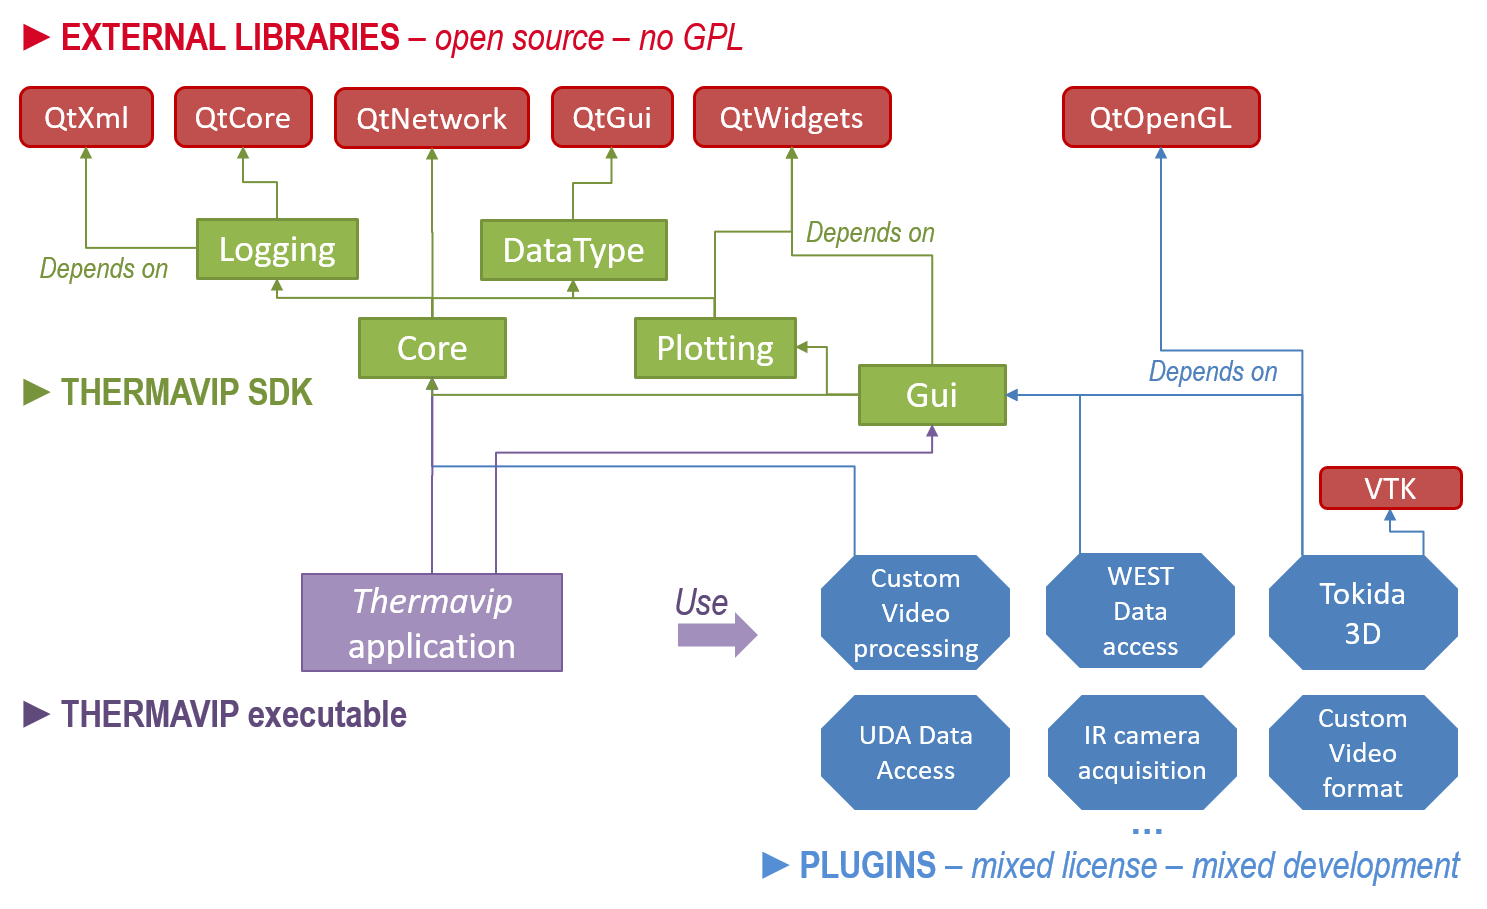
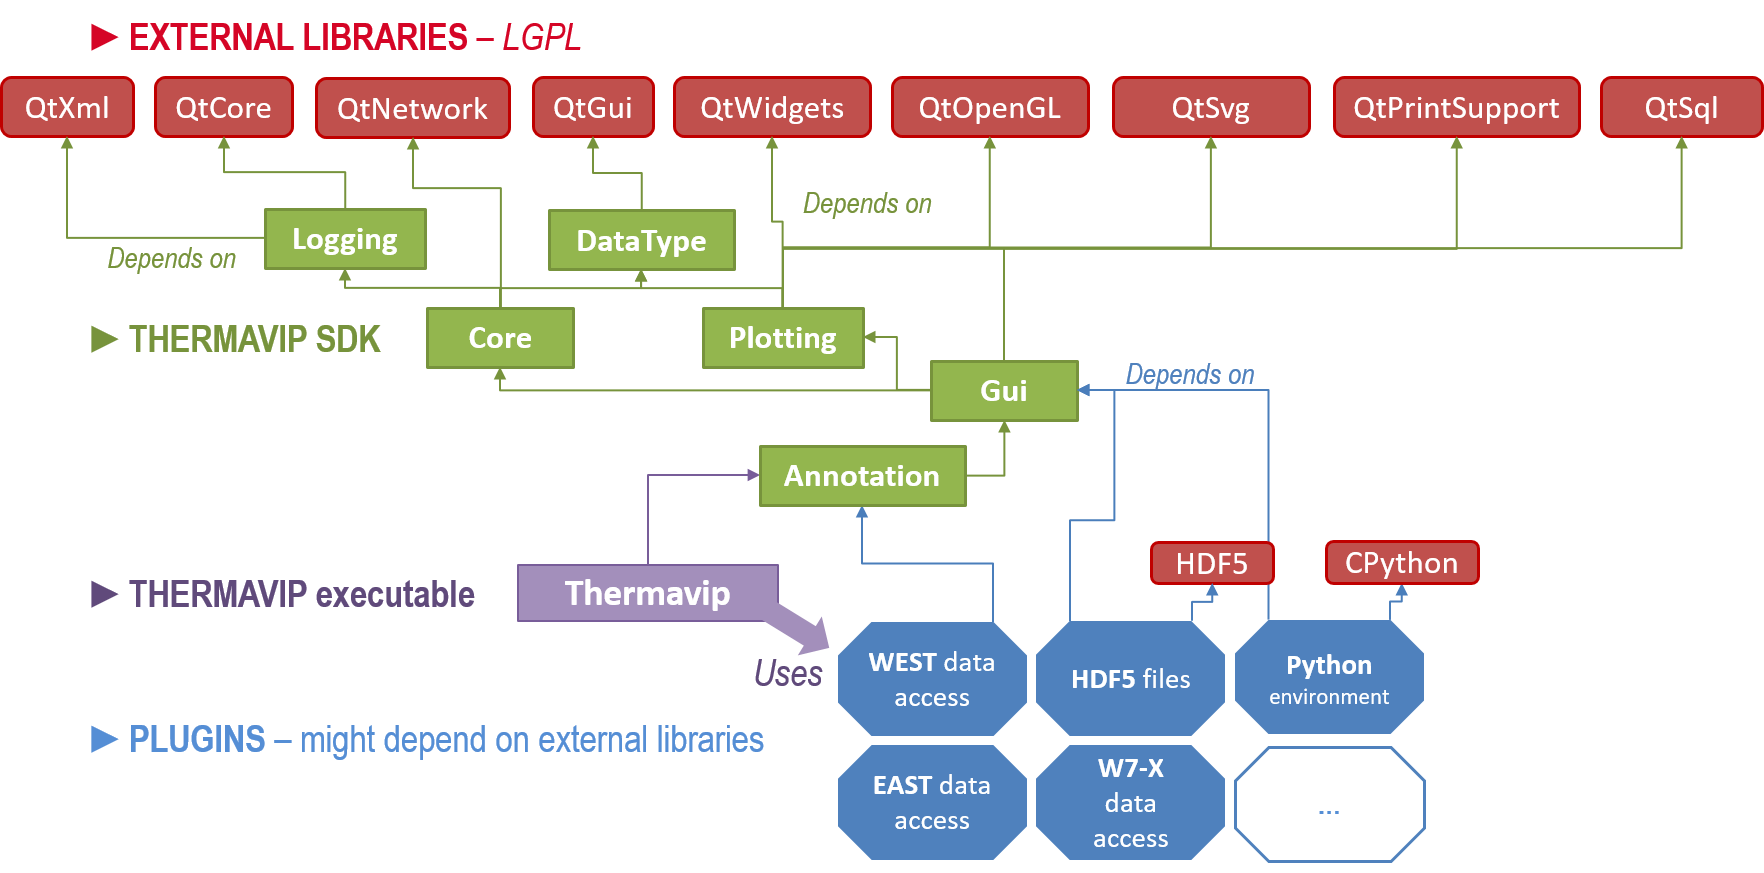
Updated documentation

diff --git a/docs/architecture.md b/docs/architecture.md
@@ -2,71 +2,32 @@
 
 # Global architecture
 
+
 Thermavip is a C++ framework based on 4 layers (see image below):
 
 - The Qt library which is the only external dependency of Thermavip. You will need a version of Qt >= 5.9
-- a Software Development Kit (SDK) composed of 5 shared libraries: 
-			1.	[Logging](docs/logging.md): logging to file/console/GUI tools
-			2.	[DataTypes](docs/datatypes.md): base data types manipulated by Thermavip (N-D arrays, vector of points, scene models...)
-			3.	[Plotting](docs/plotting.md): high performance plotting library for offline/real-time display of multi-sensor data
-			4.	[Core](docs/core.md): base library to define and manipulate processing pipelines
-			5.	[Gui](docs/gui.md): base graphical components (main window, players...)
+- a Software Development Kit (SDK) composed of 6 shared libraries: 
+
+	1.	[Logging](docs/logging.md): logging to file/console/GUI tools
+	2.	[DataType](docs/datatypes.md): base data types manipulated by Thermavip (N-D arrays, vector of points, scene models...)
+	3.	[Plotting](docs/plotting.md): high performance plotting library for offline/firm real-time display of multi-sensor data
+	4.	[Core](docs/core.md): asynchronous agents library based on dataflow, archiving, plugin mechanism
+	5.	[Gui](docs/gui.md): base graphical components (main window, players...)
+	6.	[Annotation](docs/annotation.md): graphical components used to annotate IR videos, upload annotations to JSON files or to a MySQL/SQLite DB, query and display annotations from a DB.
 			
 - The *plugins*, dynamic libraries containing user specific functionalities based on the SDK. These plugins generally provide tools to interact with additional data format (like new video files), display additional GUI features or define new signal processing routines. 
-- The *Thermavip* executable itself, which is basically just a plugin container. Its main purpose it to load the plugins from within the *VipPlugins* directory.
+- The *Thermavip* executable itself, which is basically just a plugin container. Its main purpose it to setup the main GUI and load the plugins from within the *VipPlugins* directory.
+
 
 ![Thermavip architecture](images/architecture.png)
 
 A lot of Thermavip SDK functionalitites rely on Qt mechanisms : meta-object system and the property system.
 It is fundamental to understand these systems if you wish to use Thermavip SDK.
 
-	
-The repository directory tree looks like the following:
-```
-bin
-icons
-doc
-docs
-fonts
-help
-tools
-src
-	-> Core
-	-> DataType
-	-> External
-	-> GenericProcess
-	-> Gui
-	-> Logging
-	-> Plotting
-	-> Plugins
-		-> DirectoryBrowser
-		-> FFmpeg
-		...
-```
-
--	*bin* folder: contains all binaries (shared libraries and exectutables) generated when compiling Thermavip (*.dll and *.exe files on Windows).
--	*icons* : contains all image files used by Thermavip.
--	*doc* : contains all documentation files used by Doxygen, as well as doxygen generated documentation.
--	*docs*: markdown documentation
--	*fonts*: additional fonts used within Thermavip
--	*help*: help files (based on [sphinx](https://www.sphinx-doc.org/en/master/))
--	*tools*: additional binary tools used by Thermavip (currently for Windows only)
--	*src* : contains all Thermavip sources. The *src* folder is divided into several directories:
-	-	One folder for each SDK library (Core, DataType, Gui, Logging, Plotting).
-	-	The *GenericProcess* folder, which contains the Thermavip executable code.
-	-	The *Plugins* folder containing all standard Thermavip plugins (on folder per plugin)
-	-	The *External* folder which contains external codes (mainly plugins developped by partners)
+Currently, Thermavip libraries are restricted to C++11 as older gcc version must be supported.
 
 
-The Thermavip SDK dependency tree is the following:
-```
-		Logging		DataType
-				\	/	|
-				Core	Plotting
-					\	/
-					Gui
-```
-
+# Naming convention
 
 
 Thermavip source code is not very strict with its naming convention. In hidden codes (at least hidden for people manipulating the API, not the sources) might coexists different conventions. The API itself (almost) always follows the same naming convention. It is very close to the Qt library one. The naming convention is the following:

diff --git a/README.md b/README.md
@@ -21,7 +21,7 @@ For real-time exploitation of sensor data, Thermavip provide tools for:
 * Recording any kind of sensor data within a single or multiple archives,
 * Online/multiscreen displaying of several videos and temporal signals,
 
-Below screenshot shows an example of software built based on Thermavip SDK for the post analysis of WEST sensor data:
+Below screenshot shows an example of software built based on Thermavip SDK for the post analysis of [WEST](https://irfm.cea.fr/en/west/) sensor data:
 
 ![Thermavip](docs/images/thermavip.png)
 
@@ -37,7 +37,8 @@ The SDK itself is based on [Qt](https://www.qt.io) only, a powerfull and open so
 
 **These libraries can also be used outside of Thermavip application, like any third party library.**
 
-Currently, Thermavip libraries are restricted to C++11 as older gcc version must be supported.
+The basic Thermavip application, without plugins, provides at least the necessary features dedicated to video annotation.
+Note that this requires to build Thermavip with the [librir](https://github.com/IRFM/librir) library (see [build](compilation.md) notes).
 
 
 ## Prerequisites
@@ -58,8 +59,8 @@ Thermavip compilation relies on cmake. See this [page](docs/compilation.md) for 
 ## Authors
 
 * [Victor MONCADA](mailto:victor.moncada@cea.fr) (victor.moncada@cea.fr)
-* **Gwenael Dunand**
-* **Chakib Belafdil**
+* [Léo DUBUS](mailto:leo.dubus@cea.fr) (victor.moncada@cea.fr)
+* [Erwan GRELIER](mailto:erwan.grelier@cea.fr) (victor.moncada@cea.fr)
 
 The software has been built with the collaboration and intensive testing of:
 
